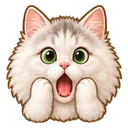
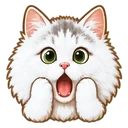
Weezy is snow white: whitened every painted Weezy (keeping her grey head patch, pink ears/nose, green eyes and outline); backup drawn cat whitened too
Claude-Session: https://claude.ai/code/session_01UWo5NUcV5E9NFbtz2taqPa

diff --git a/sw.js b/sw.js
@@ -1,7 +1,7 @@
 // iRob offline support: the app opens even with no signal.
 // Pages/scripts: network first (so updates arrive right away), cached copy when offline.
 // Fonts/images: cache first. Never caches AI, photos from other sites, or anything that isn't a plain GET.
-const CACHE = 'irob-v16';
+const CACHE = 'irob-v17';
 const SHELL = ['./', './index.html', './cards.js', './cards.css', './life.js', './fun.js', './fun.css', './music.js', './cat.js', './rob.jpg', './icon-180.png?v=2', './favicon-32.png?v=2',
   './fonts/cinzel-latin.woff2', './fonts/lora-400-latin.woff2', './fonts/lora-italic-400-latin.woff2', './fonts/cormorant-600-latin.woff2'];
 self.addEventListener('install', e => { e.waitUntil(caches.open(CACHE).then(c => c.addAll(SHELL)).then(() => self.skipWaiting())); });

diff --git a/cat.js b/cat.js
@@ -4,7 +4,7 @@
 'use strict';
 const COATS = {
   // Weezy: long white fur, grey cap and ear tips, green eyes (matches the painted icon kitten)
-  weezy:  {fur:'#f5f2ee', dark:'#a59e95', light:'#ffffff', cream:'#fffdf9', stripe:'#8c867f', cap:'#9c968f'},
+  weezy:  {fur:'#fbfcfd', dark:'#b4b7bc', light:'#ffffff', cream:'#ffffff', stripe:'#9a9590', cap:'#9c968f'},
   grey:   {fur:'#9aa1ab', dark:'#6c727c', light:'#c9ced5', cream:'#eceae6', stripe:'#5d636c'},
   orange: {fur:'#e3a25a', dark:'#b8722f', light:'#f3c98f', cream:'#fbf1e3', stripe:'#a9612a'},
   tabby:  {fur:'#a58a6a', dark:'#76604a', light:'#cdb393', cream:'#f1e9dd', stripe:'#5e4a37'},
